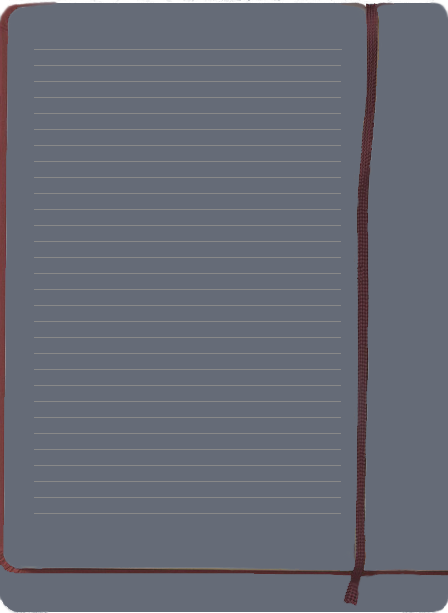
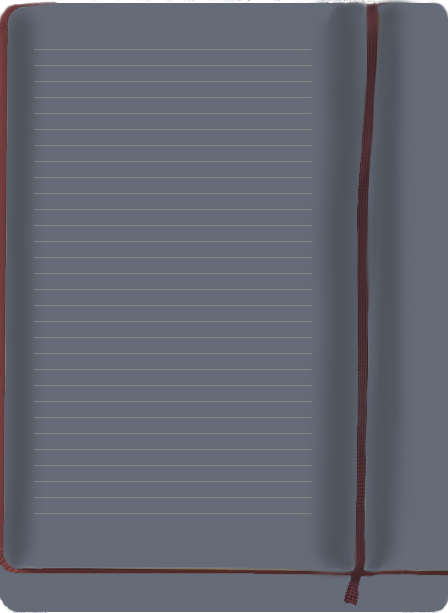
Version 1.1.1a, fix bugs, fixed interface arrangement, added shadow to the theme background

Changed region(s): [[0.7188, 0.0, 0.9062, 0.9608], [0.8125, 0.124, 0.875, 0.9299], [0.0312, 0.031, 0.0625, 0.8989]]

diff --git a/src/main/java/Settings.java b/src/main/java/Settings.java
@@ -1,7 +1,5 @@
-import javafx.application.Platform;
 import javafx.geometry.Insets;
 import javafx.geometry.Pos;
-import javafx.scene.Node;
 import javafx.scene.Scene;
 import javafx.scene.control.Button;
 import javafx.scene.control.Label;
@@ -10,7 +8,6 @@ import javafx.scene.control.ToggleButton;
 import javafx.scene.effect.DropShadow;
 import javafx.scene.image.Image;
 import javafx.scene.image.ImageView;
-import javafx.scene.input.KeyCode;
 import javafx.scene.layout.*;
 import javafx.scene.paint.Color;
 import javafx.scene.paint.Paint;
@@ -20,9 +17,6 @@ import javafx.stage.Modality;
 import javafx.stage.Stage;
 import javafx.stage.StageStyle;
 import org.apache.commons.lang3.StringUtils;
-
-import java.util.Timer;
-import java.util.TimerTask;
 
 public class Settings {
     private static double xOffset = 0;
@@ -39,13 +33,13 @@ public class Settings {
         }
     }
 
-    public static void showSettings(ImageView fxButton, StackPane rootStackPane){
+    public static void showSettings(ImageView fxButton){
         layout = new VBox();
         ToggleButton tgb = new ToggleButton();
-        tgb.setSelected(ThemeSwitcher.getCurrentTheme().isDark());
+        tgb.setSelected(ThemeSwitcher.isDark());
         tgb.setOnAction(event -> tgbOnAction(tgb));
         tgb.setFont(Font.font("Courier New", FontWeight.BOLD, 12));
-        if (ThemeSwitcher.getCurrentTheme().isDark()){
+        if (ThemeSwitcher.isDark()){
             tgb.setText("Dark theme");
             tgb.setGraphic(new ImageView(imgPowerOn));
         } else {
@@ -54,8 +48,8 @@ public class Settings {
         }
 
 
-        ImageView imageView = new ImageView(new Image(NoteEditor.class.getResourceAsStream("images/done.png")));
-        Button okButton = new Button("", imageView);
+        ImageView okButton = new ImageView(new Image(NoteEditor.class.getResourceAsStream("images/done.png")));
+//        Button okButton = new Button("", imageView);
         okButton.setStyle("-fx-background-color : transparent;");
         //____
 
@@ -65,9 +59,9 @@ public class Settings {
         AnchorPane anchorPane = new AnchorPane();
         anchorPane.getChildren().addAll(layout, okButton);
         setBackGroundColor();
-        AnchorPane.setBottomAnchor(okButton, 38.0);
-        AnchorPane.setRightAnchor(okButton, 13.0);
-        AnchorPane.setLeftAnchor(tgb, 100.0);
+        AnchorPane.setBottomAnchor(okButton, 44.0);
+        AnchorPane.setRightAnchor(okButton, 16.0);
+        AnchorPane.setRightAnchor(tgb, 0.0);
 
         AnchorPane.setBottomAnchor(layout, 3.0);
         AnchorPane.setLeftAnchor(layout, 3.0);
@@ -104,7 +98,7 @@ public class Settings {
                 "-fx-effect: dropShadow(three-pass-box, black, 10, 0, 0, 0);");
 
         //-----------------------------------
-        okButton.setOnAction(event -> {
+        okButton.setOnMouseClicked(event -> {
             DropShadow shadow = new DropShadow();
             shadow.setColor(Color.RED);
             if (StringUtils.isNumeric(text.getCharacters())){
@@ -144,17 +138,17 @@ public class Settings {
 
     static void tgbOnAction(ToggleButton tgb) {
         if (tgb.isSelected()) {
-            ThemeSwitcher.getCurrentTheme().setDark(true);
+            ThemeSwitcher.setDark(true);
             tgb.setText("Dark theme");
             tgb.setGraphic(new ImageView(imgPowerOn));
-            ThemeSwitcher.getCurrentTheme().setDarkTheme();
+            ThemeSwitcher.setDarkTheme();
             setBackGroundColor();
         }
         else {
-            ThemeSwitcher.getCurrentTheme().setDark(false);
+            ThemeSwitcher.setDark(false);
             tgb.setText("Light theme");
             tgb.setGraphic(new ImageView(imgPowerOff));
-            ThemeSwitcher.getCurrentTheme().setLightTheme();
+            ThemeSwitcher.setLightTheme();
             setBackGroundColor();
         }
     }

diff --git a/src/main/java/Note.java b/src/main/java/Note.java
@@ -40,14 +40,12 @@ public class Note extends AnchorPane {
     public void setTitle(String title){
         noteModel.setTitleLabelText(title);
         titleLabel.setText(title);
-        titleLabel.setFont(Font.font("Courier New", FontWeight.EXTRA_BOLD, 14));
         setTitleLabelColor();
     }
 
     public void setPreview(String preview){
         noteModel.setPreviewLabelText(preview);
         previewLabel.setText(preview);
-        previewLabel.setFont(Font.font("Courier New", 12));
         setPreviewLabelColor();
     }
 
@@ -117,12 +115,13 @@ public class Note extends AnchorPane {
     }
 
     private void createNoteInstance(){
-        final String cssNoteBorders = "-fx-border-color: blue;\n"
-                + "-fx-background-color: transparent;\n"
+        final String cssNoteBorders =
+                "-fx-background-color: transparent;\n"
                 + "-fx-stroke-dash-array: 12 2 4 2;\n"
                 + "-fx-border-width: 0.3;\n"
-                + "-fx-border-color: brown;\n"
-                + "-fx-border-style: dashed;\n";
+                + "-fx-border-color: red;\n"
+                + "-fx-border-style: dashed;\n"
+                + "-fx-border-radius: 8;";
 
         this.setStyle(cssNoteBorders);
         Button trashButton = createTrashButton();
@@ -157,10 +156,12 @@ public class Note extends AnchorPane {
 
 
     public void setTitleLabelColor() {
+        titleLabel.setFont(Font.font("Courier New", FontWeight.BOLD, 13));
         titleLabel.setTextFill(ThemeSwitcher.getCurrentTheme().getTitleColor());
     }
 
     public void setPreviewLabelColor() {
+        previewLabel.setFont(Font.font("Courier New", 12));
         previewLabel.setTextFill(ThemeSwitcher.getCurrentTheme().getPreviewColor());
     }
 

diff --git a/src/main/java/ThemeSwitcher.java b/src/main/java/ThemeSwitcher.java
@@ -50,8 +50,8 @@ public class ThemeSwitcher {
     public static void setDarkTheme() {
         isDark = true;
         dateStampColor = Color.valueOf("#20db39");
-        titleColor = Color.valueOf("white");
-        previewColor = Color.valueOf("white");
+        titleColor = Color.valueOf("#E2E9E4");
+        previewColor = Color.valueOf("#E2E9E4");
         backgroundColor = Color.valueOf("#656b77");
         backgroundAppImage = new ImageView(new Image(ThemeSwitcher.class.getResourceAsStream("images/d_notes.png")));
         applyCurrentTheme();

diff --git a/src/main/java/Controller.java b/src/main/java/Controller.java
@@ -68,7 +68,7 @@ public class Controller extends View implements Initializable{
     @FXML private void onSettingsClick() {
         if (!Settings.isSettingsShow) {
             Settings.closeStage();
-            Settings.showSettings(fxSettings, fxRootStackPane);
+            Settings.showSettings(fxSettings);
         }
         Settings.isSettingsShow = true;
     }

diff --git a/src/main/java/Info.java b/src/main/java/Info.java
@@ -46,7 +46,7 @@ public class Info {
         layout.setAlignment(Pos.TOP_CENTER);
         layout.setPadding(new Insets(10, 10, 10, 10));
 
-        Label version = new Label("Ver.1.1.0 stable");
+        Label version = new Label("Ver.1.1.1a");
         setLabelFont(version);
         Label nickName = new Label("@Setaniel");
         setLabelFont(nickName);

diff --git a/src/main/java/Traffic.java b/src/main/java/Traffic.java
@@ -42,6 +42,7 @@ public class Traffic {
         parsedStackTraffic.setAlignment(Pos.CENTER);
 
         AnchorPane.setLeftAnchor(yaLogo, 30.0);
+        AnchorPane.setBottomAnchor(yaLogo, 3.0);
         AnchorPane.setRightAnchor(parsedStackTraffic, 65.0);
     }
     private static void setTrafficColor(){
